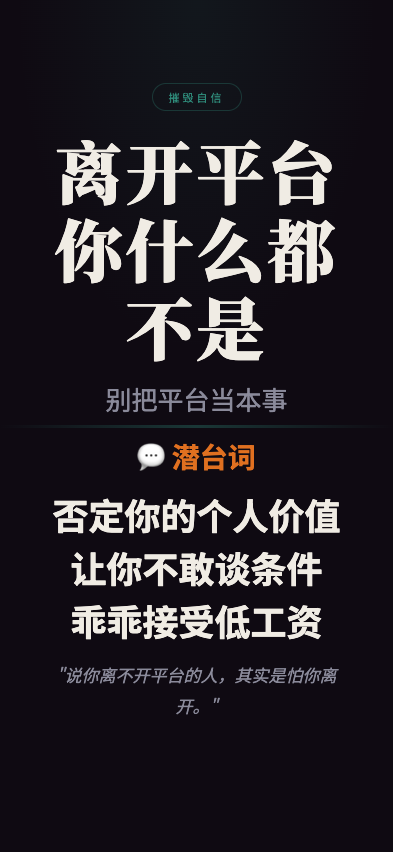
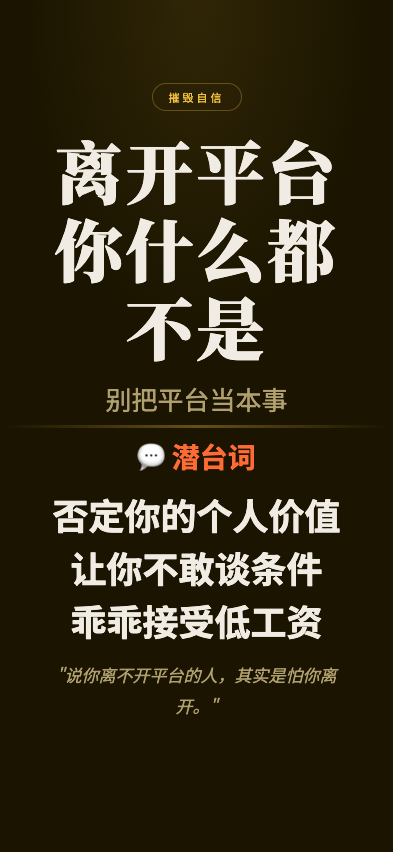
feat: 职场生存法则 screenshot - likaipingtainishenmedoubushi

diff --git a/wuliao-tools/tools/biz-speak/scenes/likaipingtainishenmedoubushi.html b/wuliao-tools/tools/biz-speak/scenes/likaipingtainishenmedoubushi.html
@@ -7,11 +7,11 @@
 <link href="https://fonts.googleapis.com/css2?family=Noto+Serif+SC:wght@400;700;900&family=Noto+Sans+SC:wght@300;400;700&display=swap" rel="stylesheet">
 <style>
   :root {
-    --bg: #0f0a12;
+    --bg: #1a1400;
     --text: #f0ece4;
-    --text-dim: #8a8a9a;
-    --gold: #2e8b7a;
-    --red: #e07020;
+    --text-dim: #b0a070;
+    --gold: #f0c040;
+    --red: #ff6b35;
   }
   * { margin:0; padding:0; box-sizing:border-box; }
   html, body { width:100%; height:100%; overflow:hidden; }
@@ -24,11 +24,11 @@
   }
   body::before {
     content:''; position:absolute; top:0; left:0; right:0; height:45%;
-    background:radial-gradient(ellipse at 50% 0%, rgba(46,139,122,0.1) 0%, transparent 65%);
+    background:radial-gradient(ellipse at 50% 0%, rgba(240,192,64,0.1) 0%, transparent 65%);
     pointer-events:none; z-index:0;
   }
   .top { flex:1; display:flex; flex-direction:column; align-items:center; justify-content:flex-end; padding:4px 28px 8px; position:relative; z-index:1; }
-  .tag { font-size:11px; letter-spacing:3px; color:var(--gold); border:1px solid rgba(46,139,122,0.3); padding:5px 16px; border-radius:50px; margin-bottom:20px; }
+  .tag { font-size:11px; letter-spacing:3px; color:var(--gold); border:1px solid rgba(240,192,64,0.3); padding:5px 16px; border-radius:50px; margin-bottom:20px; }
   .main-title { font-family:'Noto Serif SC'; font-size:68px; font-weight:900; text-align:center; line-height:1.15; letter-spacing:3px; min-width:0; overflow-wrap:break-word; max-width:92%; }
   .sub-title { font-size:26px; color:var(--text-dim); text-align:center; margin-top:14px; }
   .divider { width:100%; height:3px; background:linear-gradient(90deg,transparent,var(--gold),transparent); opacity:0.35; flex-shrink:0; position:relative; z-index:1; }
@@ -39,7 +39,7 @@
   .quote { font-size:17px; color:var(--text-dim); font-style:italic; text-align:center; line-height:1.8; margin-top:18px; padding:0 12px; }
 </style>
 </head>
-<body>
+<body class="theme-4">
   <div class="top">
     <div class="tag">摧毁自信</div>
     <div class="main-title">离开平台你什么都不是</div>
@@ -49,9 +49,7 @@
   <div class="bottom">
     <div class="truth-label">💬 潜台词</div>
     <div class="truth-lines">
-      <div class="truth-line">否定你的个人价值</div>
-      <div class="truth-line">让你不敢谈条件</div>
-      <div class="truth-line">乖乖接受低工资</div>
+      <div class="truth-line">否定你的个人价值</div><div class="truth-line">让你不敢谈条件</div><div class="truth-line">乖乖接受低工资</div>
     </div>
     <div class="quote">"说你离不开平台的人，其实是怕你离开。"</div>
   </div>
